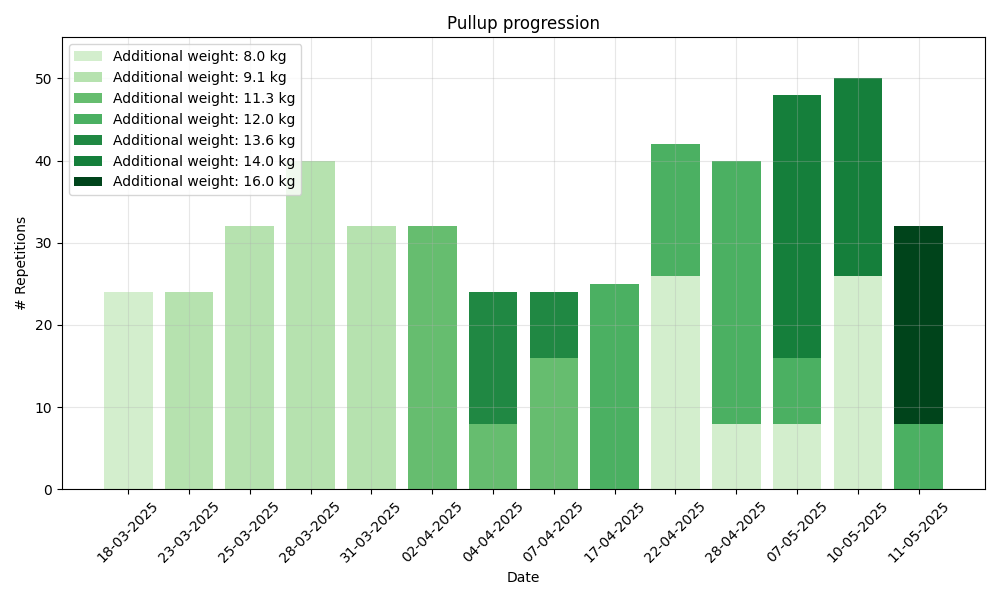
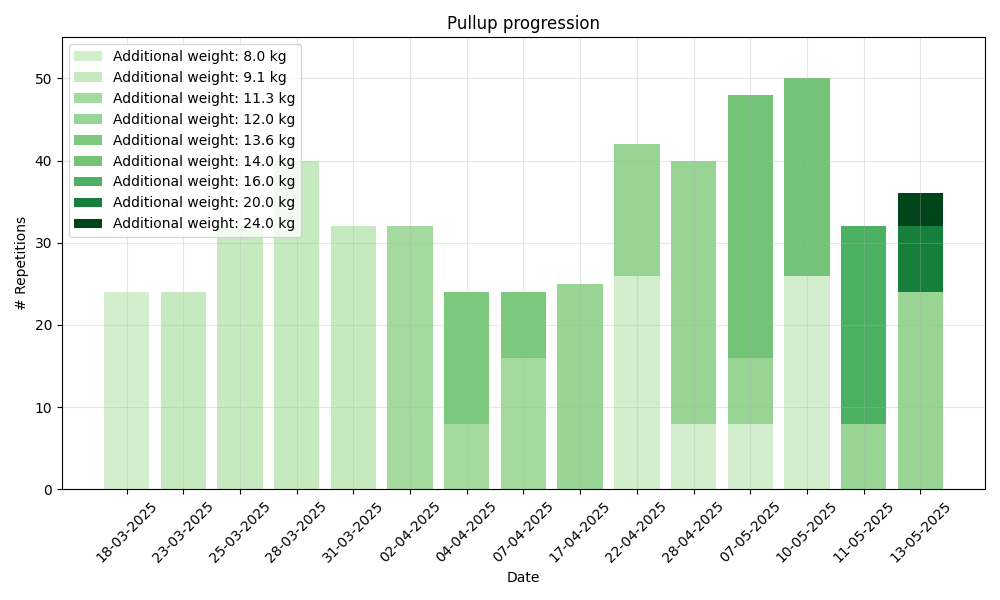
reps are multiplicative!

diff --git a/src/crimpy/intensity.py b/src/crimpy/intensity.py
@@ -92,20 +92,14 @@ class WorkoutIntensityCalculator:
 
     def fingerboard_intensity(self, exercise):
         """
-        For fingerboard sets, we propose:
-
-          intensity_set = [(timeon/timeon0)*0.2 + (timeoff0/timeoff)*0.1 + (edge0*edge)*0.4 + (reps/reps0)*0.3] * log(e - 1 + rest[s]/300s)
-
-        xxx0 being your reference numbers, and the
-        xxx_weights are supposed to sum to 1
-        Then we sum over all sets and multiply by a scaling constant.
+        todo write description
         """
         intensity = 0.0
-        K_fb = 0.0028  # scaling constant
+        K_fb = 0.0004  # scaling constant
         for s in exercise.get("sets", []):
             edge_val = self.extract_edge_value(s.get("edge", ""))
             edge_ref = 35.0  # reference edge in mm
-            alpha = 1.2  # exponent > 1 for convex reward
+            alpha = 1.1  # exponent > 1 for convex reward
 
             edge_factor = (edge_ref / edge_val) ** alpha if edge_val and edge_val != 0 else 1.0
 
@@ -113,7 +107,8 @@ class WorkoutIntensityCalculator:
             timeon = time_str_to_seconds(s.get("timeon", "0s"))
             timeoff = time_str_to_seconds(s.get("timeoff", "0s"))
             rest = time_str_to_seconds(s.get("rest", "0s"))
-            intensity_set = (timeon/7)*0.2 + (3/timeoff)*0.1 + (35*edge_factor)*0.4 + (reps/6)*0.3
+            intensity_set = (timeon/7)*0.3 + (3/timeoff)*0.2 + (35*edge_factor)*0.5
+            intensity_set *= reps
             rest_factor = 1.8*np.log(np.e - 1 + rest/1800)
             #print("Fingerboard ::: ", f"[{self.source_file} | {self.date}] edge: {edge_val}, I = {intensity_set:.3f} : "f"{(timeon / 7) * 0.2:.2f}, {(3 / timeoff) * 0.1:.2f}, {(35 * edge_factor) * 0.4:.2f}, {(reps / 6) * 0.3:.2f}, {rest_factor:.2f}")
             intensity_set /= rest_factor
@@ -178,21 +173,12 @@ class WorkoutIntensityCalculator:
 
     def pullup_intensity(self, exercise):
         """
-        For pullups, we propose:
-
-          intensity_set = [(reps/reps0)*reps_weight + (weight/weight0)*weight_weight] * log(e - 1 + rest[s]/300s)
-          reps0, weight0 being your reference numbers, and the
-          xxx_weights are supposed to sum to 1
+        Adjust variable at the top to your own weight
         """
         intensity = 0.0
-        K_pu = 0.11  # scaling constant
+        K_pu = 0.005  # scaling constant
 
-
-        w_reps = 0.5
-        w_weight = 0.5
-        reps0 = 8
-        weight0 = 14
-        alpha = 1.8
+        alpha = 4
         for s in exercise.get("sets", []):
             reps = s.get("repetitions", 0)
             if "weight_kg" in s:
@@ -213,10 +199,10 @@ class WorkoutIntensityCalculator:
                 edge_multiplier = 35 / edge_val if edge_val else 1
             timeoff = time_str_to_seconds(s.get("timeoff", "0s"))
 
-            rep_term = (reps / reps0) * w_reps
-            weight_term = (((weight / weight0))**alpha) * w_weight
+            weight_term = (MY_WEIGHT_KG + weight) / MY_WEIGHT_KG
+            weight_term = weight_term ** alpha
 
-            intensity_set = rep_term + weight_term
+            intensity_set = weight_term * reps
 
             intensity_set *= edge_multiplier
             intensity_set /= np.log(np.e - 1 + timeoff / 180)
